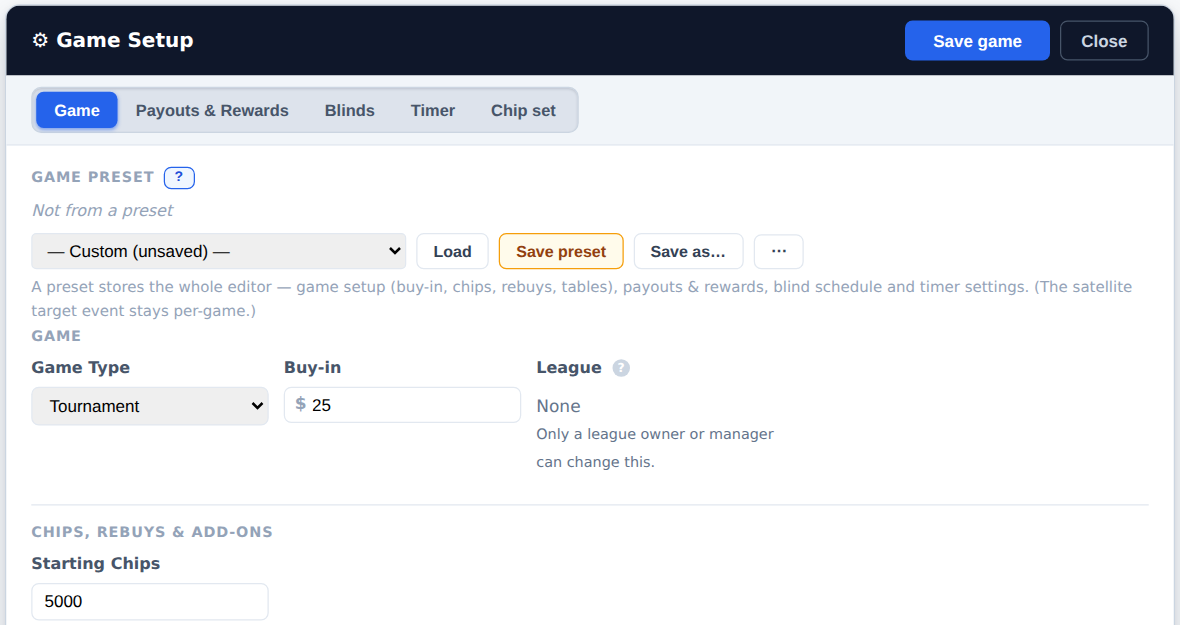
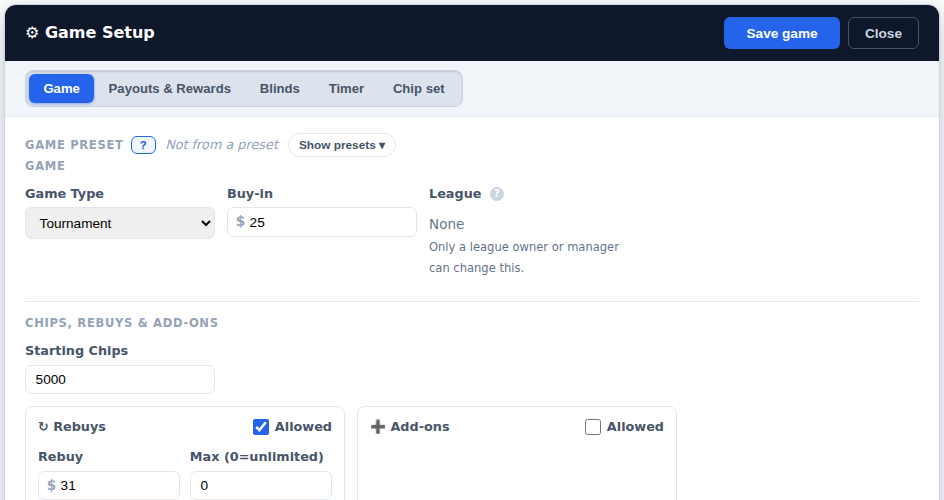
The Setup editor opens on the game, not on the preset bar (v1.8.0)
The Game preset section at the top of every Setup tab used to be fully
open: the preset list, Load, an amber Save preset, Save as… and the ⋯
menu, plus a sentence about what presets store, before a single game
field. For a host setting up their first game that was the wrong thing
to meet first, and the amber button beside the blue Save game read as
the thing to press. It is now one line: the title, its (?) help, where
this game's setup came from (with the MODIFIED tag when it has drifted),
and a Show presets button that opens the controls; opened, it stays open
on that browser (localStorage pk_preset_bar_open). Save preset carries
the amber class only while pressing it would write the game back over
its preset (setPresetSaveState toggles it with the enabled state).

The Host Guide's preset note describes the line, and its Setup picture
is retaken on the collapsed editor.

diff --git a/www/checkin.php b/www/checkin.php
@@ -368,6 +368,11 @@ if ($session) {
     .pk-preset-update{border-color:#f59e0b !important;color:#92400e !important;background:#fffbeb !important}
     .pk-preset-update:hover{background:#fef3c7 !important}
     .pk-preset-bar{display:flex;gap:.5rem;align-items:center;flex-wrap:wrap}
+    .pk-preset-head{display:flex;align-items:center;gap:.6rem;flex-wrap:wrap;padding-bottom:.4rem}
+    .pk-preset-head .pk-cfg-title,.pk-preset-head .pk-preset-from{margin:0}
+    .pk-preset-toggle{padding:.25rem .65rem;border:1.5px solid var(--border,#e2e8f0);border-radius:999px;background:#fff;font-size:.74rem;font-weight:600;color:#475569;cursor:pointer}
+    .pk-preset-toggle:hover{background:#f1f5f9}
+    #presetBody{margin-top:.5rem}
     .pk-preset-more{position:relative}
     .pk-preset-morebtn{padding:.4rem .6rem;border:1.5px solid var(--border,#e2e8f0);border-radius:6px;background:#fff;font-size:.9rem;line-height:1;color:#64748b;cursor:pointer}
     .pk-preset-morebtn:hover{background:#f1f5f9}
@@ -2561,16 +2566,28 @@ function renderSettingsView() {
     // could not be reached until the game type had been saved and the editor
     // reopened — the same defect the Payouts tab had.
     {
-        h += '<div class="pk-cfg-section" id="cfgPresetSection" style="border-top:none;padding-top:0;margin-top:0' + (isCash() ? ';display:none' : '') + '"><div class="pk-cfg-title" style="display:flex;align-items:center;gap:.45rem">Game Preset'
+        // One quiet line by default: the title, where this game's setup came
+        // from, and a disclosure for the controls. The select and its buttons
+        // used to sit open at the top of every tab, so the first thing a new
+        // host met in Setup was preset machinery they had no use for yet, with
+        // an amber Save preset beside the blue Save game. Once opened it stays
+        // open on this browser (localStorage), so a host who lives by presets
+        // is not clicking it every week.
+        var presetOpen = presetBarOpen();
+        h += '<div class="pk-cfg-section" id="cfgPresetSection" style="border-top:none;padding-top:0;margin-top:0' + (isCash() ? ';display:none' : '') + '">';
+        h += '<div class="pk-preset-head"><div class="pk-cfg-title" style="display:flex;align-items:center;gap:.45rem">Game Preset'
            + '<button class="pk-help-btn" style="padding:.15rem .5rem;font-size:.7rem" title="What game presets do" aria-label="Game preset help" data-act="showPresetHelp">?</button></div>';
         // Provenance line: which preset this game was set up from, and whether
         // it still matches. Filled by refreshPresetState() from the server —
         // it must survive a reload, so it cannot live in a JS variable.
         h += '<div class="pk-preset-from" id="presetFrom"></div>';
+        h += '<button type="button" class="pk-preset-toggle" id="presetToggle" data-act="togglePresetBar" aria-controls="presetBody" aria-expanded="' + (presetOpen ? 'true' : 'false') + '">' + (presetOpen ? 'Hide presets &#9652;' : 'Show presets &#9662;') + '</button>';
+        h += '</div>';
+        h += '<div id="presetBody"' + (presetOpen ? '' : ' hidden') + '>';
         h += '<div class="pk-preset-bar">';
         h += '<select id="payoutStructureSelect" data-act-change="onPayoutStructureChange" style="flex:0 1 300px;min-width:160px;padding:.3rem .5rem;border:1.5px solid var(--border,#e2e8f0);border-radius:4px;font-size:.85rem"></select>';
         h += '<button data-act="loadPayoutStructure" title="Apply the selected preset to this game: game setup, payout split, points, ticket prizes, prizes, bounty and jackpot entry, blind schedule and timer settings">Load</button>';
-        h += '<button id="btnUpdPayoutStructure" class="pk-preset-update" data-act="updatePayoutStructure">Save preset</button>';
+        h += '<button id="btnUpdPayoutStructure" data-act="updatePayoutStructure">Save preset</button>';
         h += '<button data-act="savePayoutStructureAs" title="Save everything in this editor as a NEW named preset">Save as…</button>';
         // Destructive / admin actions live behind the ⋯ menu: they applied to
         // whatever was selected in the dropdown, which reads as if they applied
@@ -2581,9 +2598,10 @@ function renderSettingsView() {
         h += '<button id="btnDefPayoutStructure" data-act="setDefaultPayoutStructure">Set as site default</button>';
         h += '<button id="btnDelPayoutStructure" class="danger" data-act="deletePayoutStructure">Delete preset</button>';
         h += '</div></div>';
-        h += '</div>';
+        h += '</div>';   // .pk-preset-bar
         h += '<div style="font-size:.75rem;color:#94a3b8;margin-top:.3rem">A preset stores the whole editor — game setup (buy-in, chips, rebuys, tables), payouts &amp; rewards, blind schedule and timer settings. (The satellite target event stays per-game.)</div>';
-        h += '</div>';
+        h += '</div>';   // #presetBody
+        h += '</div>';   // #cfgPresetSection
     }
     h += '<div class="pk-sv-pane' + (SETTINGS_TAB === 'game' ? ' active' : '') + '" data-pane="game">' + renderGamePane() + '</div>';
     h += '<div class="pk-sv-pane' + (SETTINGS_TAB === 'payouts' ? ' active' : '') + '" data-pane="payouts">' + renderPayoutsPane() + '</div>';
@@ -3543,6 +3561,9 @@ function setPresetSaveState() {
     var allowed = !!(PRESET_STATE && PRESET_STATE.modified && PRESET_STATE.can_update);
     upd.disabled = !allowed;
     upd.classList.toggle('disabled', !allowed);
+    // Amber only when pressing it would write over a preset: the warning
+    // colour on a button that could not be pressed read as the thing to click.
+    upd.classList.toggle('pk-preset-update', allowed);
     upd.title = !PRESET_STATE ? 'This game was not set up from a preset — use Save as… to make one.'
         : !PRESET_STATE.can_update ? 'You cannot change "' + PRESET_STATE.name + '" — use Save as… to make your own copy.'
         : !PRESET_STATE.modified ? 'This game already matches "' + PRESET_STATE.name + '".'
@@ -3554,6 +3575,21 @@ function svEl(tag, cls, text) {
     if (cls) e.className = cls;
     if (text !== undefined) e.textContent = text;
     return e;
+}
+
+var PRESET_OPEN_KEY = 'pk_preset_bar_open';
+function presetBarOpen() {
+    try { return localStorage.getItem(PRESET_OPEN_KEY) === '1'; } catch (e) { return false; }
+}
+function togglePresetBar() {
+    var body = document.getElementById('presetBody');
+    var btn  = document.getElementById('presetToggle');
+    if (!body || !btn) return;
+    var open = body.hidden;                      // about to open
+    body.hidden = !open;
+    btn.setAttribute('aria-expanded', open ? 'true' : 'false');
+    btn.innerHTML = open ? 'Hide presets &#9652;' : 'Show presets &#9662;';
+    try { localStorage.setItem(PRESET_OPEN_KEY, open ? '1' : '0'); } catch (e) {}
 }
 
 function togglePresetMenu() {

diff --git a/www/help-hosts.php b/www/help-hosts.php
@@ -163,7 +163,7 @@ $allow_reg   = get_setting('allow_registration', '1') === '1';
         <p>Blinds, Timer and Chip set apply to tournaments, so they're hidden for a cash game. Blinds and Timer also stay locked until the game has actually been saved as a tournament.</p>
         <img class="help-shot" src="/img/help/setup-editor.png?v=<?= @filemtime(__DIR__ . '/img/help/setup-editor.png') ?: 0 ?>" alt="The game Setup editor showing its Game, Payouts &amp; Rewards, Blinds, Timer and Chip set tabs">
         <p><strong>Save game</strong> commits the whole editor at once &mdash; every tab, including the blind schedule &mdash; and leaves you exactly where you were, on the same tab, with the button confirming <em>Saved &#10003;</em> for a moment. Setting a game up usually takes a few passes, so saving is a checkpoint rather than an exit. Use <strong>Close</strong> (or Escape) when you're done; if anything is still unsaved you'll be asked before it's discarded.</p>
-        <div class="hint"><strong>Presets save the whole editor.</strong> The <strong>Game preset</strong> bar at the top stores game setup, payouts and rewards, the blind schedule and the timer settings as one reusable recipe &mdash; so next week's game is one <strong>Load</strong> away. The line above it always tells you whether this game came from a preset and whether it has drifted from it.</div>
+        <div class="hint"><strong>Presets save the whole editor.</strong> The <strong>Game preset</strong> line at the top of Setup tells you whether this game came from a preset and whether it has drifted from it; <strong>Show presets</strong> opens the controls, which store game setup, payouts and rewards, the blind schedule and the timer settings as one reusable recipe &mdash; so next week's game is one <strong>Load</strong> away. Once opened, the controls stay open on that browser.</div>
     </div>
 
     <div class="help-step">

diff --git a/www/version.php b/www/version.php
@@ -1,5 +1,5 @@
 <?php
-define('APP_VERSION', '1.7.2');
+define('APP_VERSION', '1.8.0');
 
 // Source for the "update available" check (public repo, no auth needed).
 // run_update_check() in db.php fetches this, regexes out APP_VERSION, and

diff --git a/CHANGELOG.md b/CHANGELOG.md
@@ -13,6 +13,27 @@ lands and that heading is renamed when a release is cut.
 
 ---
 
+## [v1.8.0] - 2026-10-06
+
+### Changed
+
+- **The Setup editor opens on the game, not on the preset bar.** The
+  *Game preset* section at the top of every Setup tab used to be fully
+  open: the preset list, Load, an amber *Save preset*, Save as… and the ⋯
+  menu, plus a sentence about what presets store, before a single game
+  field. For a host setting up their first game that was the wrong thing
+  to meet first, and the amber button beside the blue *Save game* read as
+  the thing to press. It is now one line: the title, its (?) help, where
+  this game's setup came from ("Not from a preset", or "From: Friday
+  Standard" with the MODIFIED tag when it has drifted), and a **Show
+  presets** button that opens the controls. Opened, it stays open on that
+  browser, so a host who runs every game from a preset is not clicking it
+  weekly. *Save preset* is amber only while pressing it would actually
+  write the game back over its preset; disabled, it is plain like its
+  neighbours. The Host Guide's Setup picture and its preset note follow.
+
+---
+
 ## [v1.7.2] - 2026-10-06
 
 ### Changed

diff --git a/www/img/help/README.md b/www/img/help/README.md
@@ -14,7 +14,7 @@ Those three are retaken together by `~/qa-headless/help_hosts_event_shots.js`
 deleted afterwards, so seed one again by cloning a user row); the May
 originals showed the calendar's old modal.
 - `event-rsvps.png` — the event page's Invites panel with a mix of answers, Resend on the unanswered, and a Declined section (event 237 on dev, RSVPs set to a mix and invitations marked sent first)
-- `setup-editor.png` — Manage Game's Setup editor on the Game tab: header, the five tabs, the preset bar, the first fields
+- `setup-editor.png` — Manage Game's Setup editor on the Game tab: header, the five tabs, the collapsed Game preset line (*Show presets*), the first fields
 
 `leagues-create`, `contacts-add`, `event-rsvps` and `setup-editor` are taken
 together by `~/qa-headless/help_hosts_roster_shots.js` (a fresh host with no
